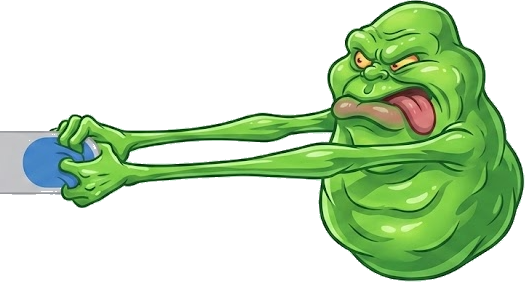
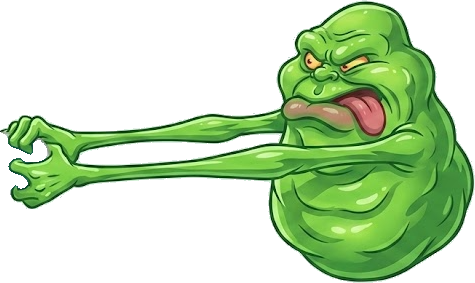
Remove slider from slimer hands and adjust CSS placement.

Changed region(s): [[0.0, 0.0, 1.0, 1.0]]

diff --git a/styles.css b/styles.css
@@ -142,8 +142,8 @@ a:hover {
   position: absolute;
   left: 100%;
   top: 50%;
-  transform: translateY(-50%) translateX(-0.5rem);
-  height: 2.2rem;
+  transform: translateY(-50%) translateX(0);
+  height: 2.3rem;
   pointer-events: none;
   transition: transform 0.15s ease, opacity 0.15s ease;
   z-index: 10;
@@ -152,7 +152,7 @@ a:hover {
 
 .sticky-toggle input:checked ~ .slimer-img {
   opacity: 1;
-  transform: translateY(-50%) translateX(0.1rem);
+  transform: translateY(-50%) translateX(-0.4rem);
 }
 
 .visually-hidden {
